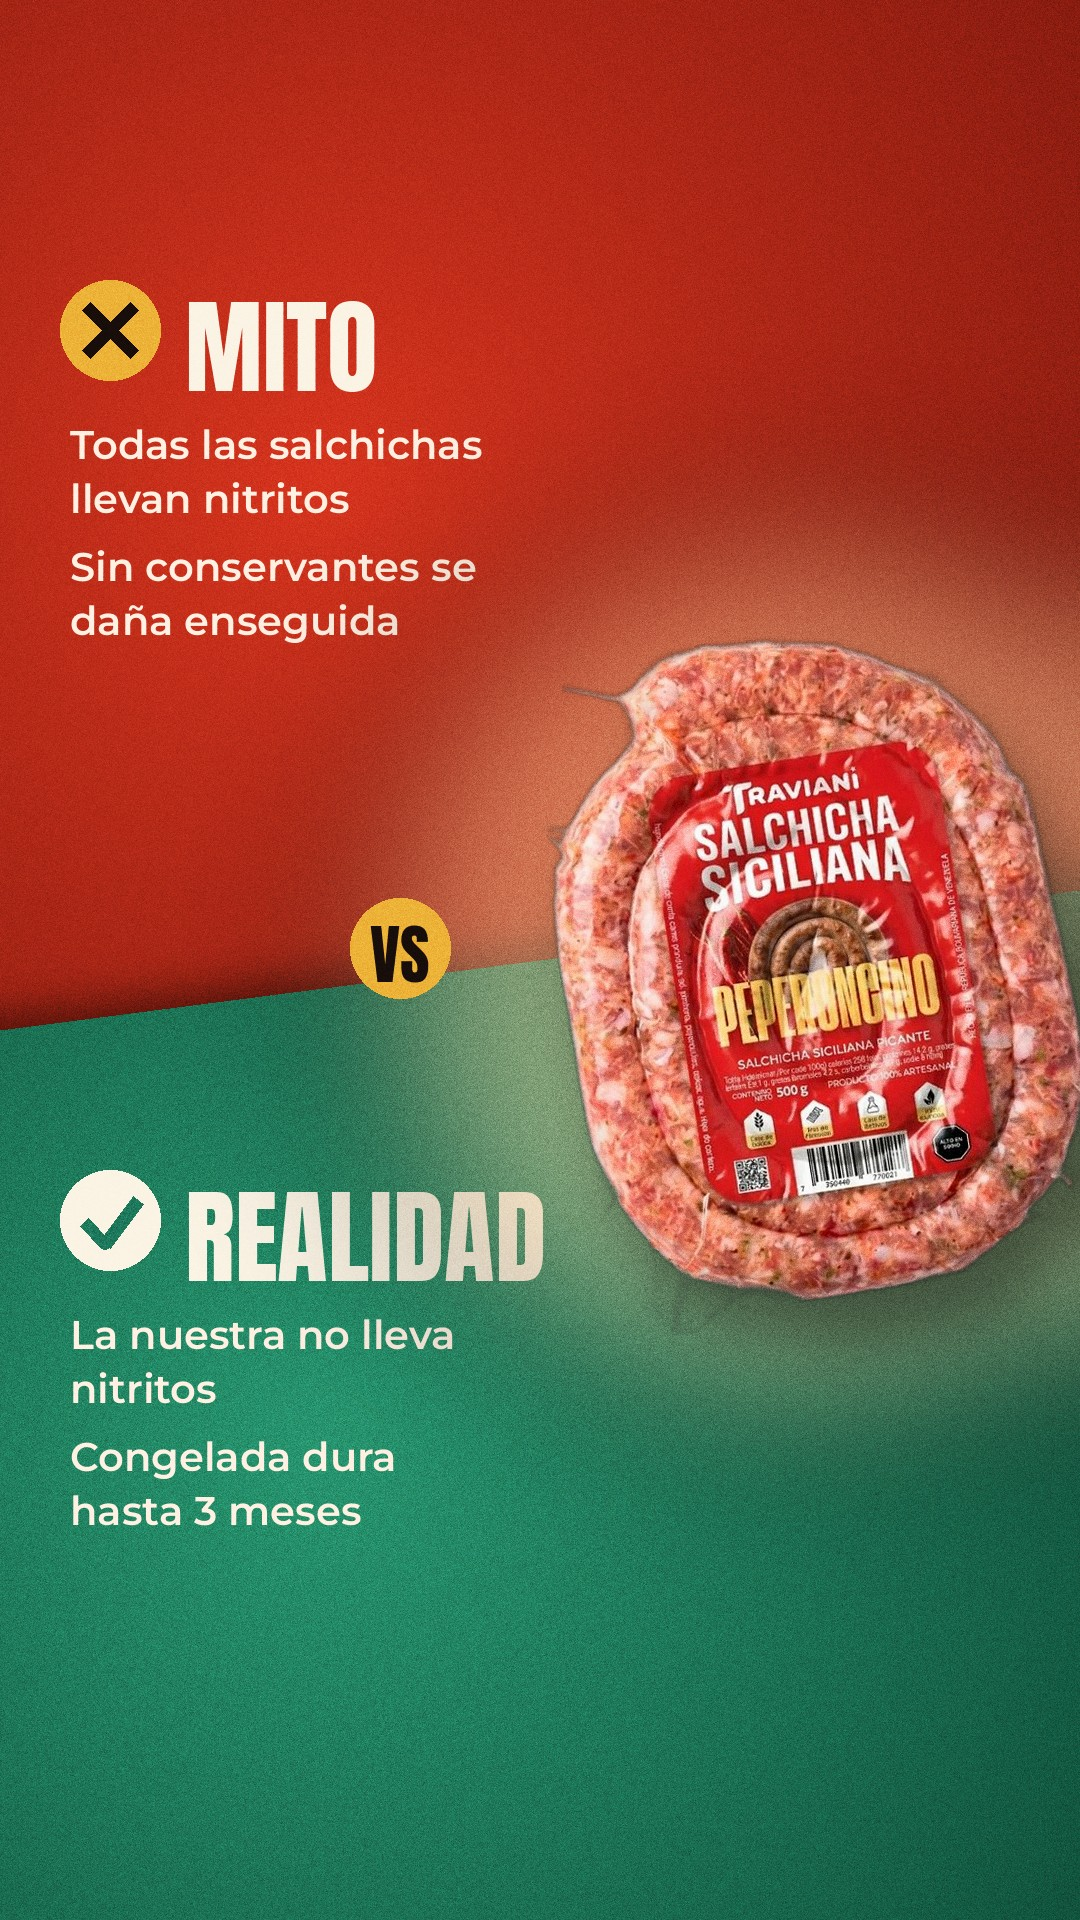
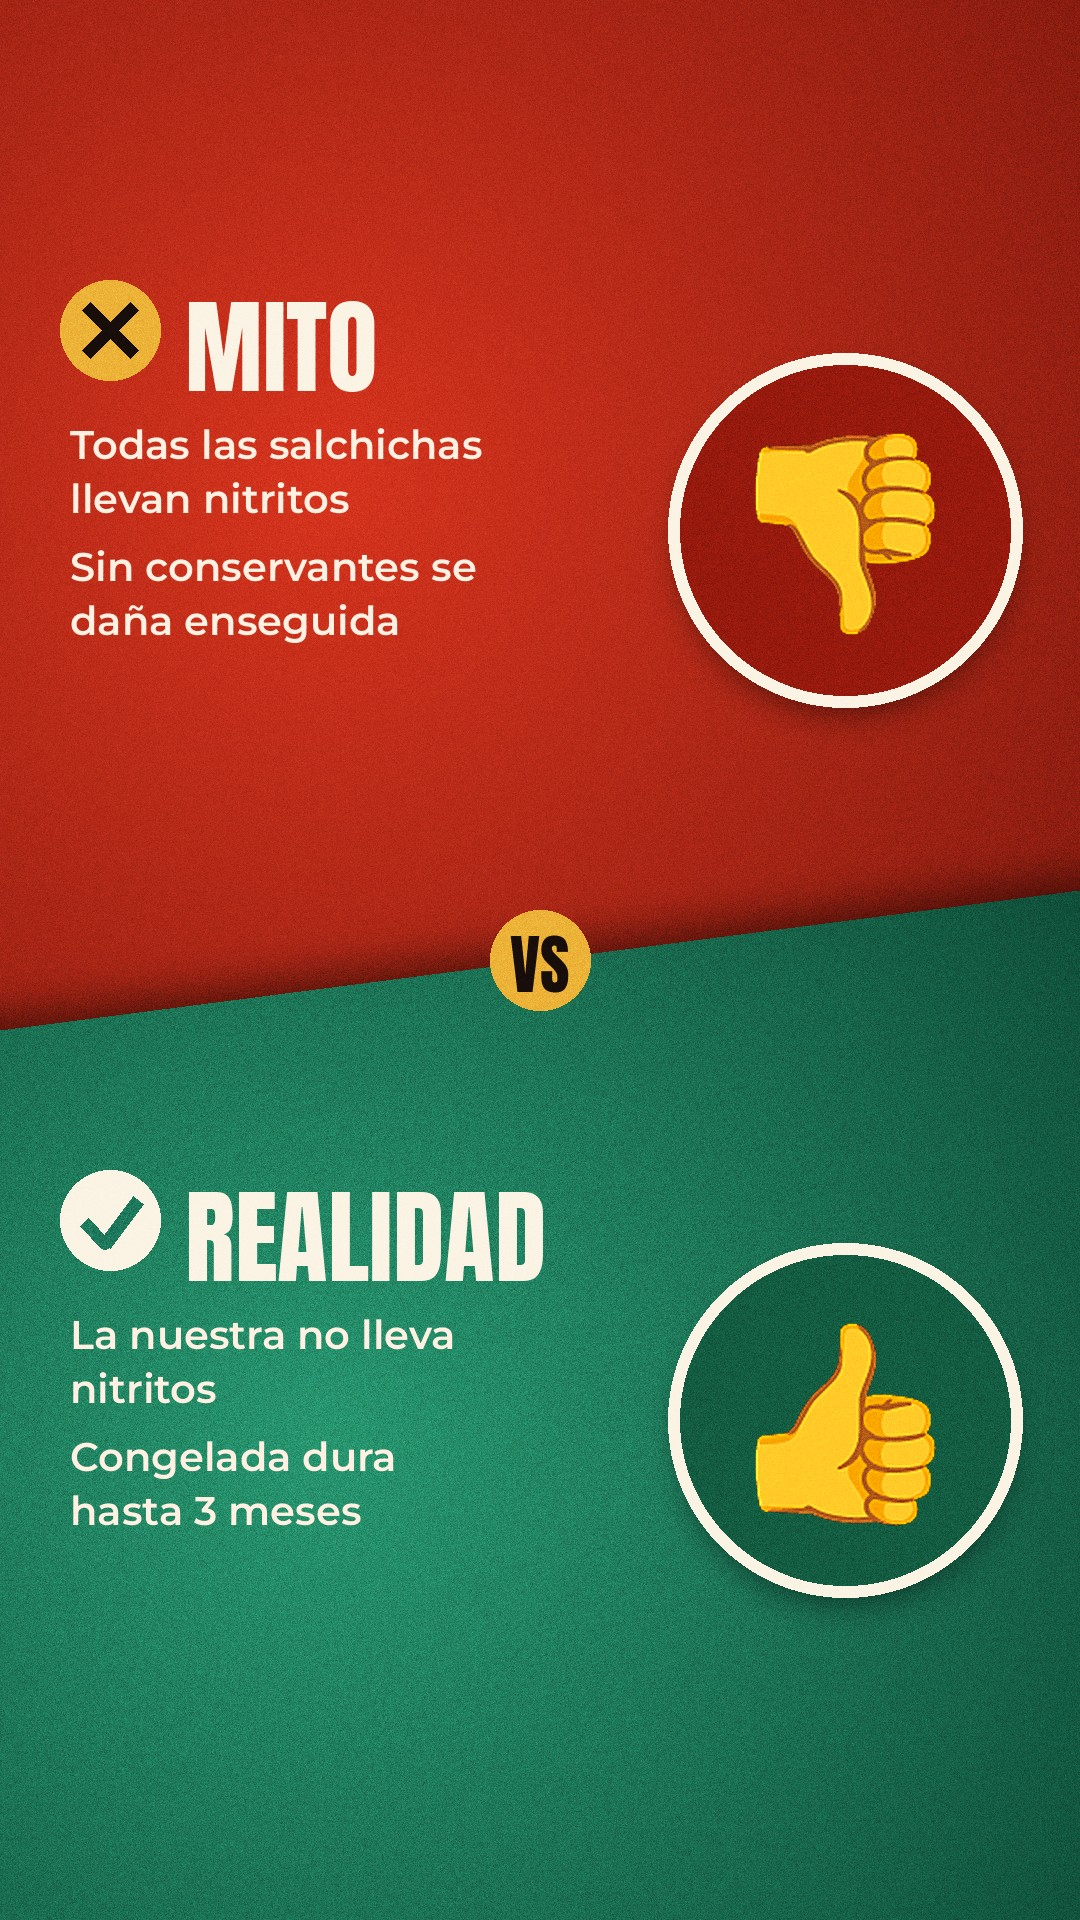
Día 8 v4: lámina 2 con pulgares aprobación/desaprobación (pendiente fotos)
Claude-Session: https://claude.ai/code/session_01BoapLYkqJjC4bybfaGWR3T

Changed region(s): [[0.3056, 0.1562, 1.0, 0.8438], [0.8861, 0.7812, 0.9167, 0.8125]]

diff --git a/dia08_v4.py b/dia08_v4.py
@@ -16,6 +16,26 @@ def rojo_bg(h):
     return D._fondo(h, "receta", 0)
 
 
+def emoji(ch, lado):
+    from PIL import ImageFont
+    f = ImageFont.truetype("/usr/share/fonts/truetype/noto/NotoColorEmoji.ttf", 109)
+    im = Image.new("RGBA", (136, 128), (0, 0, 0, 0))
+    ImageDraw.Draw(im).text((0, 0), ch, font=f, embedded_color=True)
+    im = im.crop(im.getbbox())
+    esc = lado / max(im.size)
+    return im.resize((int(im.width * esc), int(im.height * esc)), Image.LANCZOS).filter(ImageFilter.UnsharpMask(2, 80, 3))
+
+
+def medalla(b, ch, cx, cy, dia, col):
+    sh = capa(); ImageDraw.Draw(sh).ellipse((cx - dia // 2, cy - dia // 2 + 16, cx + dia // 2, cy + dia // 2 + 16), fill=(0, 0, 0, 130))
+    b.alpha_composite(sh.filter(ImageFilter.GaussianBlur(16)))
+    dd = ImageDraw.Draw(b)
+    dd.ellipse((cx - dia // 2 - 12, cy - dia // 2 - 12, cx + dia // 2 + 12, cy + dia // 2 + 12), fill=CREMA)
+    dd.ellipse((cx - dia // 2, cy - dia // 2, cx + dia // 2, cy + dia // 2), fill=col)
+    e = emoji(ch, int(dia * 0.62))
+    b.alpha_composite(e, (cx - e.width // 2, cy - e.height // 2 + 4))
+
+
 def vs():
     T, h, o = g.tt(), D.H(), D.oy()
     b = Image.new("RGBA", (W, h), ROJO + (255,))
@@ -49,13 +69,12 @@ def vs():
     bloque(y1, "MITO", DORADO, OSCURO, ["Todas las salchichas llevan nitritos", "Sin conservantes se daña enseguida"], "x")
     y2 = mid + 150 + (60 if T else 0)
     bloque(y2, "REALIDAD", CREMA, VERDE, ["La nuestra no lleva nitritos", "Congelada dura hasta 3 meses"], "ok")
-    alto = 680 if T else 620
-    p = empaque(3, alto, 9)
-    pegar_producto(b, p, (W - p.width + 40, mid - p.height // 2 + 10), brillo=(255, 215, 160))
+    dia = 330 if T else 290
+    medalla(b, "\U0001F44E", W - dia // 2 - 70, y1 + (250 if T else 230), dia, (150, 26, 14))
+    medalla(b, "\U0001F44D", W - dia // 2 - 70, y2 + (250 if T else 230), dia, (20, 92, 66))
     d = ImageDraw.Draw(b)
-    sticker_txt = ["VS"]
-    d.ellipse((W // 2 - 50 - 140, mid - 62, W // 2 + 50 - 140, mid + 38), fill=DORADO)
-    centrar(d, mid - 54, "VS", anton(64), OSCURO, W // 2 - 190, W // 2 - 90)
+    d.ellipse((W // 2 - 50, mid - 50, W // 2 + 50, mid + 50), fill=DORADO)
+    centrar(d, mid - 44, "VS", anton(64), OSCURO, W // 2 - 50, W // 2 + 50)
     if not T:
         pie(d, CREMA, 2, 5)
     return terminar(b)
